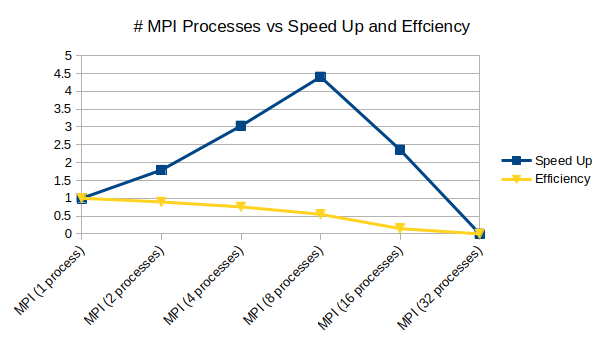
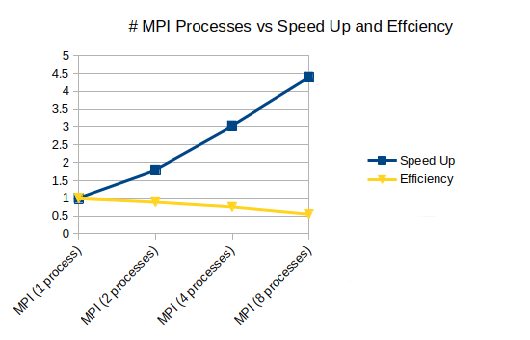
edit report

diff --git a/report/report.tex b/report/report.tex
@@ -19,7 +19,7 @@
 	\subsection{Experimental Setup}
 	Because we are working with images parallelization is not hard to conceptualize how each pixel can be treated as a possible process that can be done separately from the rest of the image. Each channel of the pixel, red, green, and blue, can be further parallelized, but for this experiment each channel will be calculated as apart of the whole pixel.
 	\subsection{Implementation}
-	The images are a 800x800 24-bit bitmap image. The number of processes that will be used for MPI are one, two, four, eight, sixteen, and thirty-two. They will be tested with a batch of 100 images. The fastest of the different parallelizations will be compared against the serial implementation for larger batch sizes of 500, and 1000, to see how it will scale with more images. For consistency all programs will be compiled with the -O2 flag, and be run on the campus Mill HPC. The final result will be an average of 3 trials for each program.
+	The images are a 800x800 24-bit bitmap image. The number of processes that will be used for MPI are one, two, four, and eight. They will be tested with a batch of 100 images. The fastest of the different parallelizations will be compared against the serial implementation for larger batch sizes of 500, and 1000, to see how it will scale with more images. For consistency all programs will be compiled with the -O2 flag, and be run on the campus Mill HPC. The final result will be an average of 3 trials for each program.
 	\subsection{Overlay}
 	The overlay algorithm combines a base image (B), and an upper layer (L) into an new image (I). It does this in a way where the dark parts of the image get darker, and the light parts of the image get lighter. Giving the combined image a more contrast. For each channel of the pixel the following formula is calculated. 
 	\[
@@ -87,8 +87,6 @@
 		MPI (2 processes) & 1275 & 1467 & 1478 & 1473.33 \\
 		MPI (4 processes) & 873 & 874 & 865 & 870.66 \\
 		MPI (8 processes) & 600 & 599 & 598 & 599 \\
-		MPI (16 processes) & 1069 & 1044 & 1243 & 1118.66 \\
-		MPI (32 processes) & 2234 & 1266 & 1174 & 1558 \\
 		CUDA & 3238 & 5164 & 5019 & 4473.66 \\
 		\hline
 	\end{tabular}
@@ -125,8 +123,6 @@
 		MPI (2 processes) & 3.112 \\
 		MPI (4 processes) & 5.266 \\
 		MPI (8 processes) & 7.654 \\
-		MPI (16 processes) & 4.098 \\
-		MPI (32 processes) & 2.943 \\
 		CUDA & 1.025 \\
 		\hline
 	\end{tabular}
@@ -161,8 +157,6 @@
 		MPI (2 processes) & 1.790 & 0.895 \\
 		MPI (4 processes) & 3.030 & 0.757 \\
 		MPI (8 processes) & 4.404 & 0.551 \\
-		MPI (16 processes) & 2.358 & 0.147 \\
-		MPI (32 processes) & 0.00115 & 0.0000391 \\
 		\hline
 	\end{tabular}
 \end{center}
@@ -277,9 +271,9 @@
 	\section{Conclusion}
 	There are three main takeaways from this project. One MPI is faster then serial, two CUDA speed up is limited by image size, and three the efficiency differences between overlay and Gaussian blur.
 	
-	On every trial for every amount of processes for MPI, MPI outperformed the serial program in run time. Even thought for overlay sixteen and thirty-two processes where not efficient and caused a slow down compared to eight processes. For overlay eight processes had the lowest run time, and two processes had the highest efficiency. As processes where added to overlay the efficiency significantly went down. For Gaussian blur we where unable to test sixteen and thirty-two processes, because of complications with the Mill HPC. Despite that With increased processes Gaussian blur showed remarkable speed up, and there was no point where runtime went higher as processes increase. Each number of processes tested for Gaussian blur the efficiencies stayed above 0.9.
+	On every trial for every amount of processes for MPI, MPI outperformed the serial program in run time. For overlay eight processes had the lowest run time, and two processes had the highest efficiency. As processes where added to overlay the efficiency significantly went down. For both Gaussian blur and overlay we where unable to test sixteen and thirty-two processes, because of complications with the Mill HPC. Despite that With increased processes Gaussian blur showed remarkable speed up, and there was no point where runtime went higher as processes increase. Each number of processes tested for Gaussian blur the efficiencies stayed above 0.9.
 	
 	Another notable part of the results is that the CUDA programs did not preform as good as the MPI programs. We believe this would change with a larger images. As image size increase you can increase the amount of threads the GPU uses easily, whereas the amount of processes MPI uses has an upper limit of reasonable use.
 	
-	The last takeaway is the efficiency difference between Gaussian blur and overlay. It is significant that the Gaussian blur's efficiency seems to settle around 0.9. Even if at some point the overhead of having many processes will drag down the efficiency. Compared to overlay's efficiency that from the testing already is suffering from the overhead. The efficiency of Gaussian blur can be seen in the increased image batch size. At n = 1000 images there is a larger gap in the serial and MPI programs for Gaussian blur, as apposed to overlay. This means that more of the Gaussian blur function is parallelize compared to overlay. This at first would not have been the guessed, because the filter for Gaussian blur is not done in parallel. But the high computational cost of the matrix operations of Gaussian blur that are parallel greatly outweigh the cost of creating the filter.
+	The last takeaway is the efficiency difference between Gaussian blur and overlay. It is significant that the Gaussian blur's efficiency seems to settle around 0.9. Even if at some point the overhead of having many processes will drag down the efficiency. Compared to overlay's efficiency that from the testing already is suffering from the overhead. The efficiency of Gaussian blur can be seen in the increased image batch size. At n = 1000 images there is a larger gap in the serial and MPI programs for Gaussian blur, as apposed to overlay. This means that more of the Gaussian blur function is parallelized compared to overlay. This at first would not have been the guessed, because the filter for Gaussian blur is not done in parallel. But the high computational cost of the matrix operations of Gaussian blur that are parallel greatly outweigh the cost of creating the filter.
 \end{document}
